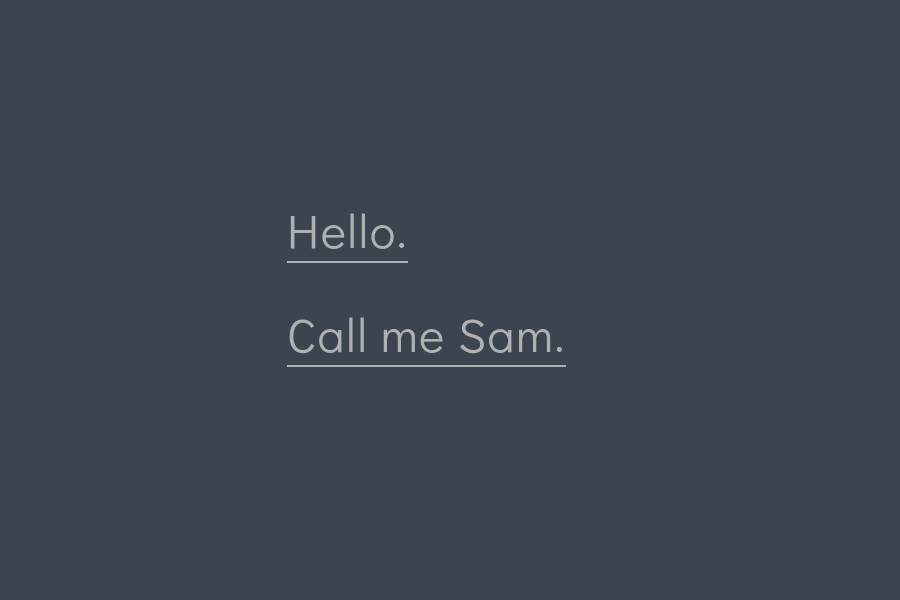
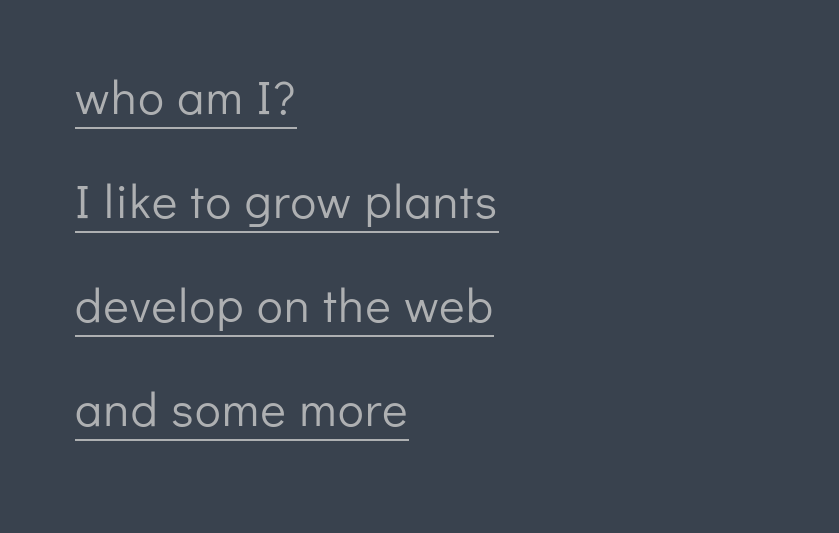
added fountain, small changes to cv

diff --git a/commin-up/index.html b/commin-up/index.html
@@ -43,7 +43,7 @@
 
 </head>
 
-</html><body><div class="wrap"><div class="section" id="title">School times &amp; misc</div><div class="section" id="content">
+</html><body><div class="wrap"><div class="section" id="title">Other little things</div><div class="section" id="content">
 
 <p>Random parts of my life not fitting anywhere else but still worth mentioning.</p>
 
@@ -53,12 +53,23 @@
 
 <p>For my masters, I decided to attend Information studies with emphasis on service design at <a href="http://kisk.phil.muni.cz/en">KISK</a>. Maaan what a change. During that time, I had a chance to attend Erasmus exchange in Oslo that was quite demanding, but inspirational at the same time.</p>
 
+<h2 id="water-fountain-visualizations">Water fountain visualizations</h2>
+
+<p>Between spring and fall, I help digital designers to showcase their work at <a href="https://www.google.cz/search?q=fontana+u+janackova+divadla+brno&amp;source=lnms&amp;tbm=isch&amp;sa=X&amp;ved=0ahUKEwjcsd_9-rvaAhVP2qQKHU2rAYAQ_AUICigB&amp;biw=950&amp;bih=1060">water fountain</a> in Brno.</p>
+
+<div style="width: 100%; max-height: 480px; margin: 1em 0;">
+  <video style="width: 95%; height: 100%; margin: 0 auto;" loop  controls autoplay="true" muted src="/videos/fountain.mp4"></video>
+  <!-- <iframe style="width: 100%; height: 100%;" src="//www.youtube.com/embed/w7Ft2ymGmfc?autoplay=1" allowfullscreen frameborder="0" title="YouTube Video"></iframe> -->
+</div>
+
+<p>Whoever wants to play with this interesting medium is welcome. If there is comon satisfaction with final piece, city of Brno is more than happy to add it to fountain&rsquo;s long-term program. Feel free to <a href="/me#get-in-touch">contact me</a> if interested.</p>
+
 <h2 id="přístupnější-stát">&ldquo;Přístupnější stát&rdquo;</h2>
 
-<p>It started as a school project - but lasted almost three years. Given the fact that Czech e-government portals are usually hard to use, we wanted to promote some change. With couple of schoolmates, we have formed a project called <a href="https://www.facebook.com/pristupnejsi.stat/">&ldquo;Přístupnější stát&rdquo;</a> (can be translated to English as something like &lsquo;More accessible state&rsquo;). Our mission was to help cities to make their websites more usable to their users. We have conducted several usability testing sessions for different cities. City representatives were later given an analysis of how their website succeeded (or not) while facing city inhabitants trying to perform routine tasks on the site. We have also taken part in yearly website contest among cities.</p>
+<p>It started as a school project - but lasted almost three years. Given the fact that Czech e-government portals are usually hard to use, we wanted to promote some change. With couple of schoolmates, we have formed a project called <a href="https://www.facebook.com/pristupnejsi.stat/">&ldquo;Přístupnější stát&rdquo;</a> (can be translated to English as something like &ldquo;More accessible state&rdquo;). Our mission was to help cities to make their websites more usable to their users. We have conducted several usability testing sessions for different cities. City representatives were later given an analysis of how their website succeeded (or not) while facing city inhabitants trying to perform routine tasks on the site. We have also taken part in yearly website contest among cities.</p>
 </div><div class="section bottom-menu"><hr/><p><a href="/me">who am I?</a>
 
 &#183; <a href="/aero">I like to grow plants</a>
 &#183; <a href="/development">develop on the web</a>
-&#183; <a href="/commin-up">but started elsewhere</a>
+&#183; <a href="/commin-up">and some more</a>
 &#183; <a href="www.erikvanek.com/"></a></p></div><div class="section footer">Hi. I&#39;m Erik. Sometimes I talk a lot.</div></div></body>

diff --git a/development/index.html b/development/index.html
@@ -45,7 +45,7 @@
 
 </html><body><div class="wrap"><div class="section" id="title">Software development</div><div class="section" id="content">
 
-<p>What is my favourite platform you may as. <a href="https://www.w3.org/wiki/Open_Web_Platform">Open web</a> I&rsquo;d reply. Web is an amazing medium that is free to use to everyone. No vendor lock-in, no proprietary tools. On the other hand, it suffers from the fact that it was constructed as a network for exchange of documents. It was just simple hypertext back then. Times have changed. Today&rsquo;s internet users expect smooth, interactive yet reliable tools. It&rsquo;s challenging to deliver those, but pleasing when done properly.</p>
+<p>What is my favourite platform you may ask. <a href="https://www.w3.org/standards/">Open Web Platform</a> I&rsquo;d reply. Web is an amazing medium that is free to use to everyone. No vendor lock-in, no proprietary tools. On the other hand, it suffers from the fact that it was constructed as a network for exchange of documents. It was just simple hypertext back then. Times have changed. Today&rsquo;s internet users expect smooth, interactive yet reliable tools. It&rsquo;s challenging to deliver those, but pleasing when done properly.</p>
 
 <h2 id="what-am-i-up-to">What am I up to?</h2>
 
@@ -60,7 +60,7 @@
 <li>React - React is awesome, right? Yes, Vue is steadily growing, Angular has a huge community, but counting its pros and cons, I believe React still wins in frontend world. Feel free to prove me wrong.</li>
 <li>Redux - It is hard to build apps without them having state. React&rsquo;s heavy inspiration in Elm made me interested in Elm lately. Other than that, Dan Abramov has made a great yet simple to understand tool for React ecosystem. Kudos for that!</li>
 <li>Typescript - Type safety is nice. Typescript can help you prevent dumb errors, but also slow you down. Depends on optimally defined rules. At first, I was not a big fan, recently we have a good relationship.</li>
-<li>Also got in touch with other tools like Webpack, Reselect, Storybook, Jest for testing, postcss, npm and some others.</li>
+<li>Also got in touch with other tools like Webpack, Reselect, Storybook, Jest for testing, postcss, npm and others.</li>
 </ul></li>
 <li>.NET land - in all companies I&rsquo;ve worked so far, backend was written in .NET. Last two years I&rsquo;ve spent working with .NET Core. I aim at writing SOLID backend code, trying to keep minimum of logic in controllers when using MVC. If I could choose between frontend or backend, I&rsquo;m all for frontend work though.</li>
 <li>Responsive webdesign - feels like a proper mindset when building <a href="http://bradfrost.com/blog/post/this-is-the-web/">web these days</a>. It is crucial to deliver inclusive designs in the world of growing <a href="https://seesparkbox.com/foundry/there_is_no_breakpoint">device fragmentation</a>.</li>
@@ -79,5 +79,5 @@
 
 &#183; <a href="/aero">I like to grow plants</a>
 &#183; <a href="/development">develop on the web</a>
-&#183; <a href="/commin-up">but started elsewhere</a>
+&#183; <a href="/commin-up">and some more</a>
 &#183; <a href="www.erikvanek.com/"></a></p></div><div class="section footer">Hi. I&#39;m Erik. Sometimes I talk a lot.</div></div></body>

diff --git a/me/index.html b/me/index.html
@@ -89,11 +89,12 @@
 <li>mail <a href="mailto:[email redacted]">[email redacted]</a>,</li>
 <li>phone [phone redacted],</li>
 <li><a href="https://www.linkedin.com/in/erikvanek/">LinkedIn</a>,</li>
+<li>skype vanekerik,</li>
 <li>personally at Údolní 26, 602 00 Brno.</li>
 </ul>
 </div><div class="section bottom-menu"><hr/><p><a href="/me">who am I?</a>
 
 &#183; <a href="/aero">I like to grow plants</a>
 &#183; <a href="/development">develop on the web</a>
-&#183; <a href="/commin-up">but started elsewhere</a>
+&#183; <a href="/commin-up">and some more</a>
 &#183; <a href="www.erikvanek.com/"></a></p></div><div class="section footer">Hi. I&#39;m Erik. Sometimes I talk a lot.</div></div></body>

diff --git a/aero/index.html b/aero/index.html
@@ -141,5 +141,5 @@ Second big reason is more of a strategic / ecological one. Big advantage of aero
 
 &#183; <a href="/aero">I like to grow plants</a>
 &#183; <a href="/development">develop on the web</a>
-&#183; <a href="/commin-up">but started elsewhere</a>
+&#183; <a href="/commin-up">and some more</a>
 &#183; <a href="www.erikvanek.com/"></a></p></div><div class="section footer">Hi. I&#39;m Erik. Sometimes I talk a lot.</div></div></body>

diff --git a/categories/index.html b/categories/index.html
@@ -47,5 +47,5 @@
 
 &#183; <a href="/aero">I like to grow plants</a>
 &#183; <a href="/development">develop on the web</a>
-&#183; <a href="/commin-up">but started elsewhere</a>
+&#183; <a href="/commin-up">and some more</a>
 &#183; <a href="www.erikvanek.com/"></a></p></div><div class="section footer">Hi. I&#39;m Erik. Sometimes I talk a lot.</div></div></body>

diff --git a/index.html b/index.html
@@ -45,5 +45,5 @@
 </head>
 
 </html><body><div class="section" id="splash">
-<div id="big-link"> <a href="/me">who am I?</a></div><div id="big-link"> <a href="/aero">I like to grow plants</a></div><div id="big-link"> <a href="/development">develop on the web</a></div><div id="big-link"> <a href="/commin-up">but started elsewhere</a></div>
+<div id="big-link"> <a href="/me">who am I?</a></div><div id="big-link"> <a href="/aero">I like to grow plants</a></div><div id="big-link"> <a href="/development">develop on the web</a></div><div id="big-link"> <a href="/commin-up">and some more</a></div>
 </div></body>

diff --git a/tags/index.html b/tags/index.html
@@ -47,5 +47,5 @@
 
 &#183; <a href="/aero">I like to grow plants</a>
 &#183; <a href="/development">develop on the web</a>
-&#183; <a href="/commin-up">but started elsewhere</a>
+&#183; <a href="/commin-up">and some more</a>
 &#183; <a href="www.erikvanek.com/"></a></p></div><div class="section footer">Hi. I&#39;m Erik. Sometimes I talk a lot.</div></div></body>